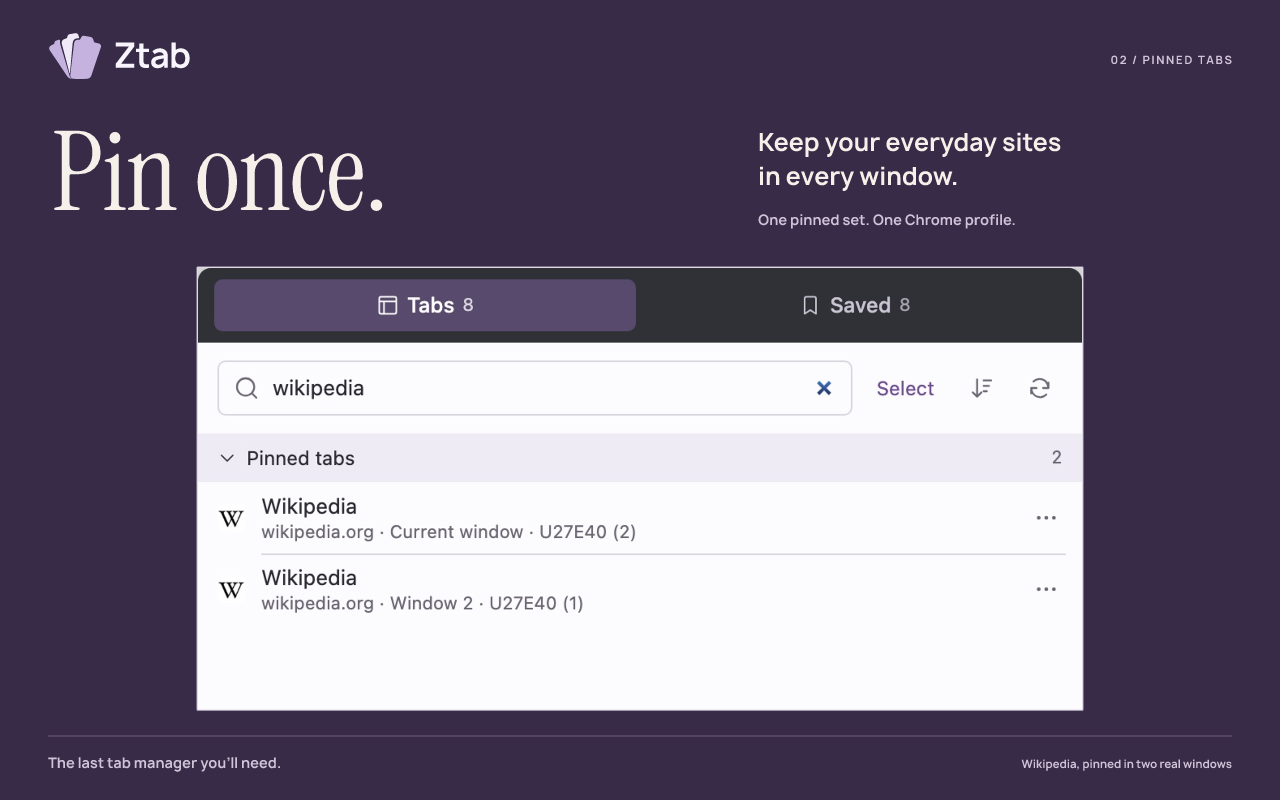
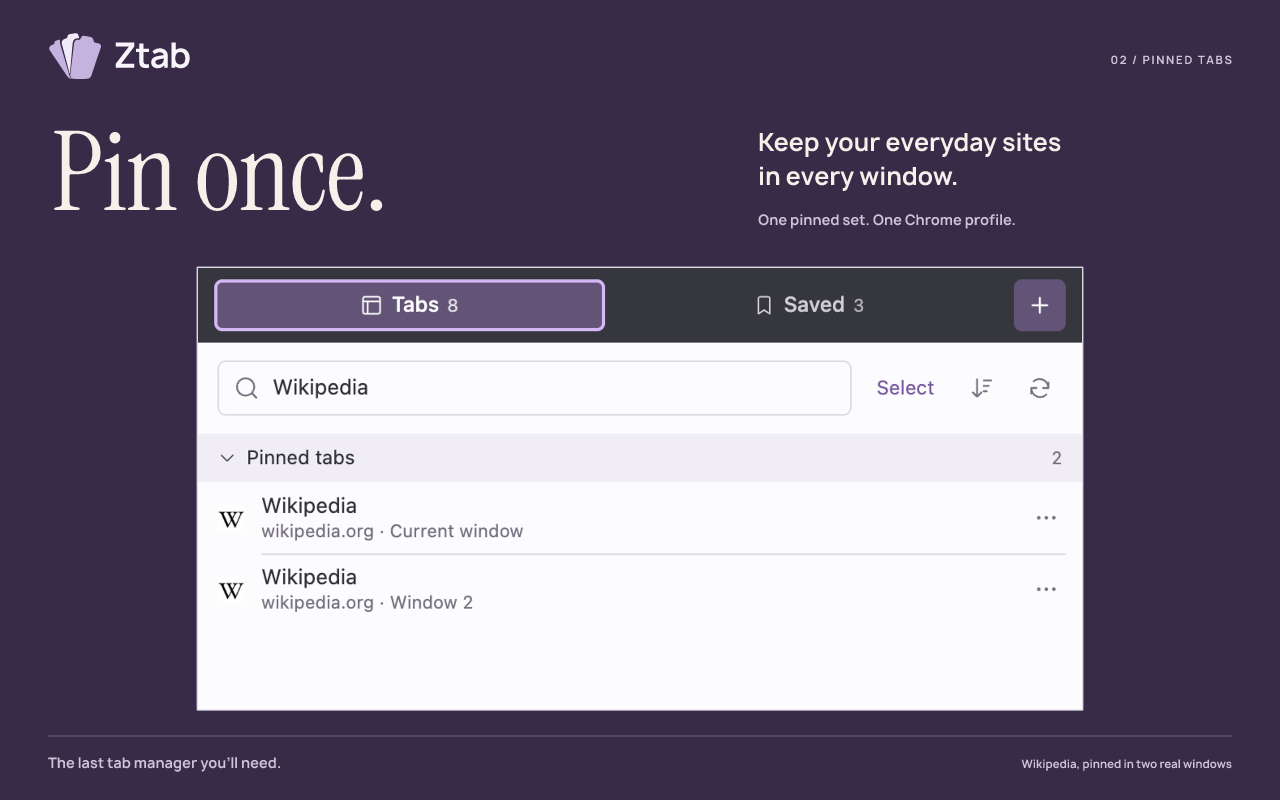
(chore): (Prepare Ztab 2.2.0 with New Tab release notes, refreshed store screenshots, and a verified upgrade package for manual publication)

diff --git a/CHROME_WEB_STORE.md b/CHROME_WEB_STORE.md
@@ -1,76 +1,66 @@
-# Ztab 2.1.1 release
+# Ztab 2.2.0 release
 
-Version **2.0.0** was last verified in the existing Chrome Web Store item on 2026-09-18. Version **2.1.0** is [released on GitHub](https://github.com/z08-studio/ztab/releases/tag/v2.1.0) and adds the approved indigo identity, clearer toolbar icons, an optional support dialog, and a dismissible toolbar pinning tip. Version **2.1.1** prepares the extension and Store name **Ztab: The last tab manager you’ll need.**; its runtime differs from 2.1.0 only in the manifest's name and version.
+Version **2.2.0** is prepared for release and manual Chrome Web Store upload. It adds New Tab actions in the side panel, updates the optional support recipient and QR code, and refreshes the Store screenshots. This document records local preparation; GitHub release publication and Store upload are separate steps.
 
-## Verified 2.0 baseline
+## Release baseline
 
-On **2026-09-18**, the [public Store item](https://chromewebstore.google.com/detail/ztab-tab-manager/fakbifeeblnopdhicpmhhmcdhmefphjp) showed **Ztab: Tab Manager**, version **2.0.0**, updated **2026-09-17**. Before the 2.1 release, GitHub's newest release tag was `v1.1.1`; it is not the baseline for this update.
+On **2026-09-22**, the [public Store item](https://chromewebstore.google.com/detail/ztab-tab-manager/fakbifeeblnopdhicpmhhmcdhmefphjp?hl=en) showed **Ztab: The last tab manager you’ll need.**, version **2.1.1**, updated **September 19, 2026**. The previous [GitHub release](https://github.com/z08-studio/ztab/releases/tag/v2.1.1) points to `36e271af1bd98df67c5769fb66f5c5a56900c540`.
 
[2 lines of base64/hex data omitted]
 
-Use `git diff 9a79758..main` to review the published 2.0 runtime against main. The feature changes reviewed for 2.1 end at `f9dfa3c`; the release preparation updates version numbers, copy, artwork version labels, and verification records.
+## Changes from 2.1.1 to 2.2.0
 
-## Changes from 2.0 to 2.1
-
-| Area | 2.1 change |
+| Area | Change |
 | --- | --- |
-| Identity | Approved B1 Tab Hub logo in P2 indigo; the slogan is **The last tab manager you’ll need.** |
-| Store name | 2.1.1 uses **Ztab: The last tab manager you’ll need.** as the extension and Store name. |
-| Toolbar | Optically fitted 16px and 32px icons improve legibility at actual toolbar size. |
-| Pinning guidance | An unpinned toolbar action shows a small tip. Pinning hides it; dismissing it is remembered locally across windows and restarts. |
-| Optional support | **Support my coding** shows a bundled address QR and a copy button for USDC on Base. It does not connect a wallet, initiate transfers, or contact a payment service. |
-| Store materials | Five refreshed screenshots and two promotional tiles; matching social assets are prepared separately. Version labels follow the package's major/minor version. |
+| New Tab | **+** beside Tabs and Saved creates an active, unpinned tab in the panel's host window, using Chrome's configured New Tab page. |
+| Other windows | **+** on another window's heading creates a tab there and focuses that window. The current-window heading has no duplicate action. |
+| Interactions | New Tab works from Saved, searches, selection, and Move mode. A successful creation returns to Tabs, clears only its search, and reveals the new row. Saved searches remain. Enter and Space activate the buttons. |
+| Failure handling | Pending and duplicate clicks are blocked. Creation failure preserves the view; focus or refresh failure after creation reports that the tab already opened. Host and destination checks preserve normal/private boundaries. |
+| Optional support | The displayed, copied, and QR-encoded recipient is `0x64719eBcD29fBbaDCCFb53Cb16aB18cff81a8067` for USDC on Base. |
+| Store materials | Fresh 2.2.0 captures show New Tab, pinned tabs, bulk selection, and Saved. English listing copy and release notes describe the new actions. |
 
-Inline cross-window groups, Saved, batch actions, recent/manual sorting, display labels, and light/dark layouts are already in **2.0**. They are not new 2.1 features. The final extension has no hosted checkout or wallet SDK; the intermediate support-site implementation was removed before this release.
+The ZIP differs from 2.1.1 in seven runtime files: the manifest, side-panel HTML, panel CSS and JavaScript, workspace controller, support constant, and bundled support QR. There are no new permissions, storage keys, dependencies, or minimum-version changes. **Chrome 123 or later** remains required.
 
-Permissions, Chrome's minimum version (**123**), existing storage keys, pinned synchronization, workspace operations, window merging, and keyboard navigation are unchanged from the published 2.0 runtime. The pinning tip adds only `ztab.toolbarPinTipDismissed` in local storage. Existing group definitions, Saved pages/collections, shared pinned sites, and preferences remain. As in 2.0, live group membership, manual ordering, and recent-use records reset on an extension update or browser restart.
+Saved pages, collections, group definitions, shared pinned sites, and preferences persist. As before, live group membership, manual ordering, and recent-use records reset on an extension update or browser restart. The support dialog does not connect a wallet or initiate a payment.
 
 ## Release status and package
 
 | Item | Status |
 | --- | --- |
-| Target version | 2.1.1 in both `manifest.json` and `package.json` |
-| Previous GitHub release | `v2.1.0` at `a25c61f`; its tag and assets remain unchanged |
+| Target version | 2.2.0 in both `manifest.json` and `package.json` |
+| Previous GitHub release | `v2.1.1`; its tag and assets remain unchanged |
 | Existing Store item | `fakbifeeblnopdhicpmhhmcdhmefphjp` |
-| Public baseline | 2.0.0, verified 2026-09-18 |
-| Local archive | `ztab-2.1.1.zip`; 82,392 bytes (80.5 KiB), built 2026-09-18 |
[1 lines of base64/hex data omitted]
+| Public Store version | 2.1.1, verified 2026-09-22 |
+| Local archive | `ztab-2.2.0.zip`; 83,090 bytes (81.1 KiB), built 2026-09-22 |
[1 lines of base64/hex data omitted]
 | Package contents | 45 runtime files, with `manifest.json` at the archive root |
-| 2.1.1 GitHub release | Pending |
-| 2.1 Store upload, review submission, publication | Pending; local preparation does not establish these states |
+| Release branch | `bear-prepare-v2-2-release`, targeting `main` through a release PR |
+| GitHub tag and release | Pending release PR merge and publication |
+| Store upload, review submission, publication | Pending; to be completed manually by Bear |
 
-Run `pnpm assets:store` to regenerate icons and marketing assets. Run `pnpm package` to execute the tests, validate versions, JavaScript syntax and manifest references, and generate `dist-store/` plus the ZIP. The package includes runtime files, the privacy policy and license; it excludes dependencies, tests, development docs, review output, and marketing images. Rebuilding the archive requires updating its size and checksum here.
+Run `pnpm assets:store` to regenerate icons and marketing assets. Run `pnpm package` to execute tests, validate versions, JavaScript syntax and manifest references, and generate `dist-store/` plus the ZIP. The package excludes dependencies, tests, development docs, local output, and marketing images. Rebuilding the archive requires updating its size and checksum here.
 
-## 2.1.1 name verification — 2026-09-18
+## Verification — 2026-09-22
 
-- [x] Run `pnpm package`: **152 tests pass**; packaged JavaScript syntax and manifest references validate.
-- [x] Verify all 45 packaged files match the source and `dist-store/` byte-for-byte. Against the published 2.1.0 ZIP, only `manifest.json` differs, and only its `name` and `version` fields change.
-- [x] Load `dist-store/` in an isolated Chrome for Testing 153 profile. The extension list and details page display the full **Ztab: The last tab manager you’ll need.** name; the extension is enabled and reports version **2.1.1**. See the [verified details screenshot](docs/screenshots/extension-name-2.1.1.png).
+- [x] Run `pnpm package`: **158 tests pass**; packaged JavaScript syntax and manifest references validate.
+- [x] Verify all 45 archived files match the source and `dist-store/` byte-for-byte; archive integrity and the runtime allowlist pass. Compare all files with the downloaded 2.1.1 ZIP and confirm unchanged permissions and minimum Chrome version.
+- [x] Load the published 2.1.1 package at a fixed unpacked path in an isolated Chrome for Testing **153.0.8010.12** profile on macOS. Seed three Saved entries, a collection, two group definitions, pinned Wikipedia in two windows, and panel preferences. Replace the files with 2.2.0 and reload through Chrome's extension page with Developer mode enabled.
+- [x] Confirm the same extension ID, enabled 2.2.0 version, unchanged Saved entries/collection IDs/group definitions, two pinned copies, pinned origins, and hidden-pins/sort/dismissed-tip preferences. Live membership and manual order clear as documented. Verify New Tab after the upgrade and check the support dialog's new recipient.
+- [x] Retain the feature's native side-panel, keyboard, Saved/search, failure-path, and 280/320/400px light/dark checks in [tests/README.md](tests/README.md#new-tab-checks).
+- [x] Capture the actual 2.2.0 side-panel document with real public pages and regenerate Store materials. Inspect the refreshed sources, cover, and both overview sheets. All five screenshots are 1280×800, the two promotional tiles have the expected dimensions, and all seven marketing images are opaque RGB PNGs. The four approved extension icons remain byte-identical.
+- [x] Run `git diff --check`. Keep documentation, listing copy, screenshot samples, and release notes in English.
 
-## 2.1.0 release verification — 2026-09-18
+The local unpacked upgrade does not establish Store delivery. Live incognito creation, third-party New Tab overrides, Windows/Linux, and Chrome 123–129 were not manually rechecked; mode boundaries and creation/focus failure have automated coverage. Local upgrade snapshots, screenshots, and package verification records are in ignored `output/`.
 
-- [x] Compare the published 2.0 CRX with its source commit and review the actual 2.1 delta.
-- [x] Run `pnpm package`: **152 tests pass**; JavaScript syntax and manifest references validate.
-- [x] Verify all 45 archived files match `dist-store/` byte-for-byte and contain only the runtime allowlist.
-- [x] Regenerate the approved artwork with `pnpm assets:store`; update marketing version labels to 2.1 without changing captured product pixels.
-- [x] Upgrade the downloaded 2.0 runtime to the prepared 2.1 files at the same unpacked path in isolated Chrome for Testing 153. The extension ID stays the same; Saved entries, collection IDs, group definitions, pinned origins, hidden-pins and sort preferences are preserved exactly. Two pinned copies remain in two windows. Live membership clears as documented.
-- [x] Use Chrome's native **Pin to toolbar** toggle: pinning hides the tip and unpinning restores it. Dismissing with Enter focuses Search, updates a second window, and persists after a page reload and full browser restart. Saved data also survives the restart; the restarted panel logs no console errors or warnings.
-- [x] Check the support dialog at 280px, 320px and 420px in light/dark modes with no horizontal overflow; inspect both 320px captures. Scoped clipboard stubs verify the success message and the denied-write fallback selecting all 42 address characters, without changing the system clipboard. Escape returns focus to the support button. The automated QR test verifies the bundled recipient.
-- [x] Visually review the regenerated Store cover and both Store/social contact sheets; validate screenshot/social dimensions and RGB encoding, and verify source captures and provenance remain byte-identical. `git diff --check` passes.
-
-The reviewed runtime changes contain no identified release-blocking correctness issue. Release preparation corrects the stale 2.0 version/rollout documentation and hardcoded artwork labels, and documents the new pinning-tip preference in the privacy policy. Support and privacy URLs were rechecked through their GitHub redirects and returned HTTP 200.
-
-Earlier verification remains dated in [tests/README.md](tests/README.md). Windows/Linux, Chrome 123–129, and a Chrome Web Store-delivered update still require checks on those environments; a local unpacked upgrade does not establish Store delivery.
-
-## Chrome Web Store rollout
+## Manual Chrome Web Store rollout
 
 Update the [existing item](https://chromewebstore.google.com/detail/fakbifeeblnopdhicpmhhmcdhmefphjp) in the [Developer Dashboard](https://chrome.google.com/webstore/devconsole). Keep its extension ID so installed users receive the update.
 
-1. Recheck the currently published version and upload the verified `ztab-2.1.1.zip` when publishing proceeds.
-2. Use the current fields and **2.1.1** release notes from [store-listing/LISTING.md](store-listing/LISTING.md). Use **Ztab: The last tab manager you’ll need.** as the name and preserve the Telegram community invitation.
-3. Upload the 128px icon, five individual screenshots, and two promotional tiles from [store-listing/assets/final/](store-listing/assets/final/), following [ARTWORK.md](store-listing/ARTWORK.md). Do not upload review sheets or social images to the Store.
-4. Keep support at `https://github.com/boundless-forest/ztab/issues` and replace the legacy privacy field with `https://github.com/boundless-forest/ztab/blob/main/PRIVACY_POLICY.md`. The 2026-09-18 public listing still linked to `boundless-forest/pinallwindows` and showed **Website content** in its data disclosures; reconcile Dashboard fields with the current policy and listing declarations before submission.
-5. Save the package and listing changes, submit for review when authorized, and record the Dashboard state separately from public availability.
-6. After publication, verify the public version is **2.1.1**, the new name and assets are visible, and an installed update retains the ID and persistent data. Verify the toolbar action, assigned shortcut, and pinned synchronization. Update the README preparation note after public availability is confirmed.
+1. Merge the release PR into `main`; publish the `v2.2.0` GitHub release against that reviewed source when ready. Attach the verified ZIP and its checksum without replacing older release assets.
+2. Upload **`ztab-2.2.0.zip`** as the new package in the existing Store item.
+3. Use the current English description and **2.2.0** release notes from [store-listing/LISTING.md](store-listing/LISTING.md). Preserve the approved product name and Telegram community invitation.
+4. Upload the 128px icon, five individual screenshots, and two promotional tiles from [store-listing/assets/final/](store-listing/assets/final/), following [ARTWORK.md](store-listing/ARTWORK.md). Do not upload overview sheets or source captures.
+5. Check the Dashboard's privacy and permission declarations against the current listing and policy. Support remains `https://github.com/boundless-forest/ztab/issues`; privacy is `https://github.com/boundless-forest/ztab/blob/main/PRIVACY_POLICY.md`. These established links redirect to the current repository.
+6. Save the package and listing changes, submit for review, and record submission separately from public availability. After publication, verify the Store shows **2.2.0**, an installed update retains its ID and persistent data, and New Tab, the toolbar shortcut, and pinned synchronization work. Update this guide and the README after publication is confirmed.
 
-The current repository is [z08-studio/ztab](https://github.com/z08-studio/ztab); `origin` uses `git@github.com:z08-studio/ztab.git`. Public support links retain their established `boundless-forest/ztab` address. Verify redirects before Store submission. Historical `pinallwindows.*` keys and runtime message names are compatibility identifiers and must not be renamed for this release.
+The current repository is [z08-studio/ztab](https://github.com/z08-studio/ztab). Historical `pinallwindows.*` keys and runtime message names are compatibility identifiers and must not be renamed for this release.

diff --git a/store-listing/QA.md b/store-listing/QA.md
@@ -1,13 +1,14 @@
-# Artwork verification — 2026-09-22
+# Artwork verification — Ztab 2.2.0 — 2026-09-22
 
-- Approved copy: **A — The last tab manager you’ll need.** Repository documentation, marketing copy, and screenshot examples use English.
-- Approved identity: B1 Tab Hub, P2 indigo. The four regenerated extension icons match the prior revision and the packaged copies.
-- Exports: **5 × 1280×800** Store screenshots, **440×280** and **1400×560** promo tiles. All seven marketing images are opaque RGB PNGs. Two overview sheets cover the Store images and brand system.
-- Sources: recaptured Saved from the actual Ztab 2.1.1 extension in an isolated Chrome for Testing profile. The **Public resources** collection contains real Wikipedia, NASA, and Python pages saved through extension workspace operations. The other five approved product captures are unchanged.
-- Visual review: inspected the refreshed Saved capture, its final Store image, and both overview sheets. The collection label fits, the page titles and favicons remain readable, and no product pixels were repainted.
-- Rendering: `pnpm assets:store` completes using bundled Manrope and Instrument Serif fonts with system-font loading disabled. Capture dimensions and approved slogan line breaks are validated.
-- Package: `pnpm package` passes **152 tests**, validates packaged JavaScript and manifest entries, and rebuilds `ztab-2.1.1.zip`.
-- Cleanup: local drafts, browser profiles, and review packages belong in ignored `output/` or outside the repository. macOS `.DS_Store` files are ignored.
-- Diff: `git diff --check` passes. Runtime permissions, storage behavior, and version numbers are unchanged.
+- Approved copy: **A — The last tab manager you’ll need.** Documentation, marketing copy, and screenshot samples use English.
+- Approved identity: B1 Tab Hub, P2 indigo. All four regenerated extension icons remain byte-identical to the prior revision.
+- Exports: **5 × 1280×800** Store screenshots, **440×280** and **1400×560** promotional tiles. All seven marketing images are opaque RGB PNGs. Two overview sheets cover the Store images and brand system.
+- Sources: refreshed Tabs, pinned tabs, bulk selection/action bar, and Saved from the actual **Ztab 2.2.0** side-panel document in an isolated Chrome for Testing 153 profile at device scale factor 2. Real Wikipedia, NASA, Python, Rust, and MDN pages are open in two windows. The unchanged keyboard-help dialog retains its earlier capture.
+- Authenticity: the Tools group is collapsed in the main capture. The bulk capture uses an HTTPS search, hidden pinned tabs, and four selected public pages; the action bar comes from the same selection. Saved shows the genuine **Public resources** collection preserved during the upgrade. Counts and product pixels are not edited or reconstructed.
+- Visual review: inspected all refreshed sources, the final cover, and both overview sheets. New Tab controls, window actions, page titles, favicons, and collection names remain readable. Screenshots scale proportionally.
+- Rendering: `pnpm assets:store` completes using bundled Manrope and Instrument Serif fonts. Approved slogan line breaks and source dimensions validate; the cover now shows **Ztab 2.2**.
+- Package: `pnpm package` passes **158 tests**, validates packaged JavaScript and manifest entries, and creates `ztab-2.2.0.zip`. All 45 archived files match the source and staging directory. Version numbers are 2.2.0; permissions remain unchanged.
+- Upgrade: the fixed-path 2.1.1 → 2.2.0 check preserves the extension ID, Saved, collections, group definitions, pinned sites/copies, and panel preferences. See [the release guide](../CHROME_WEB_STORE.md) for evidence and scope.
+- Cleanup: browser profiles and review output stay in ignored `output/` or outside the repository. `git diff --check` passes.
 
-These checks cover local source, artwork, and package preparation. Chrome Web Store upload and publication remain separate actions.
+These checks cover local source, artwork, and package preparation. Chrome Web Store upload and publication will be completed manually.

diff --git a/store-listing/LISTING.md b/store-listing/LISTING.md
@@ -1,6 +1,6 @@
 # Ztab store listing
 
-Prepared English copy for the **2.1.1** update to the existing Chrome Web Store item, following the published 2.0.0 release. The three product pillars are cross-window tab management, shared pinned tabs, and keyboard shortcuts with thoughtful interactions. This document does not indicate that the 2.1.1 listing has been submitted or published; see [the release guide](../CHROME_WEB_STORE.md) for rollout status.
+Prepared English copy for the **2.2.0** update to the existing Chrome Web Store item. The three product pillars are cross-window tab management, shared pinned tabs, and keyboard shortcuts with thoughtful interactions. Upload and submission will be completed manually; see [the release guide](../CHROME_WEB_STORE.md) for rollout status.
 
 ## Product name
 
@@ -32,6 +32,7 @@ MANAGE TABS ACROSS WINDOWS
 
 • See pinned tabs, inline groups, and window sections in one side panel
 • Jump directly to a tab in any normal window
+• Create a new tab with + beside Tabs and Saved, or use + on another window's heading to open one there
 • Move or close regular tabs without bringing each window forward
 • Keep related tabs in Ztab groups across windows without moving their browser tabs
 • Find recently used tabs first, or arrange them in Manual order
@@ -57,6 +58,7 @@ SHORTCUTS AND THOUGHTFUL INTERACTIONS
 • See the currently assigned shortcut in keyboard help
 • Select a tab with the Up and Down Arrow keys, then press Enter to open it
 • Move between controls with Tab and Shift+Tab
+• Open New Tab with Enter or Space, including while viewing Saved or searching
 • Click a tab title to jump to that tab
 • Close regular tabs with ×, use ··· for page actions, and find Merge here beside other windows
 • Cmd-click or Ctrl-click to select tabs, and Shift-click to select a range
@@ -79,7 +81,19 @@ JOIN THE COMMUNITY
 
 Have a question, found a bug, or have an idea for Ztab? Join our Telegram community: https://t.me/z08_studio
 
-## Release notes — 2.1.1
+## Release notes — 2.2.0
+
+Ztab 2.2 makes it easier to open your next tab without leaving the side panel.
+
+• Adds + beside Tabs and Saved to create a tab in the current window
+• Adds + beside other windows to create and focus a tab there
+• Keeps New Tab available from Saved and search results, with keyboard access
+• Reveals the new tab and clears the Tabs search while preserving your Saved search
+• Updates the optional USDC on Base support address and its matching QR code
+
+No new permissions are required. Your Saved library, collections, group definitions, shared pinned sites, and preferences remain in your local profile. As before, live group membership, manual tab order, and recent-use records reset when the extension updates. Chrome 123 or later is required.
+
+## Previous release notes — 2.1.1
 
 Ztab 2.1 refreshes the app's identity and makes it easier to keep Ztab within reach.
 
@@ -109,7 +123,7 @@ Group definitions and Saved pages remain across browser restarts. Live group mem
 
 ### tabs
 
-Reads open tabs and pinned state, displays the live tab list, focuses tabs, moves or closes tabs on request, creates missing pinned tabs, and removes duplicate pinned copies. No tab data is sent to an external server.
+Reads open tabs and pinned state, displays the live tab list, creates and focuses new tabs on request, moves or closes tabs on request, creates missing pinned tabs, and removes duplicate pinned copies. No tab data is sent to an external server.
 
 ### windows
 

diff --git a/store-listing/ARTWORK.md b/store-listing/ARTWORK.md
@@ -34,7 +34,7 @@ The Store image sizes follow the [Chrome Web Store image guidance](https://devel
 
 Use the Store screenshots in this order:
 
-1. **Across windows** — approved slogan and public pages from two Chrome windows; switching and Merge here are visible.
+1. **Across windows** — approved slogan and public pages from two Chrome windows; New Tab actions, switching and Merge here are visible.
 2. **Pinned tabs** — “Pin once.” The real Wikipedia search shows pinned copies in two windows.
 3. **Keyboard shortcuts** — “Stay in flow.” The actual help dialog accompanies a three-step keyboard sequence.
 4. **Bulk actions** — “A little less tab juggling.” Four public pages selected across windows, with their action bar separately displayed and labeled.
@@ -44,9 +44,9 @@ Use the Store screenshots in this order:
 
 ## Authentic screenshot sources
 
-The windows, pins, keyboard and bulk sources were captured on **2026-09-17** in the user's **Google Chrome**, with installed **Ztab 2.0** and **Shottr**. Saved was recaptured on **2026-09-22** in an isolated **Chrome for Testing** profile with **Ztab 2.1.1** and the **Public resources** collection. The collection was populated through the extension's workspace operations using real open Wikipedia, NASA and Python pages. Public websites in the full artwork set also include Rust and MDN. Page titles and favicons come from those sites.
+The windows, pins, bulk selection/action bar, and Saved sources were captured on **2026-09-22** from the actual **Ztab 2.2.0 side-panel document** in an isolated **Chrome for Testing 153** profile using Playwright at device scale factor 2. Real public pages are open in two Chrome windows. The **Public resources** collection contains Wikipedia, NASA and Python pages and was preserved during the verified upgrade from 2.1.1. Public websites also include Rust and MDN; page titles and favicons come from those sites. The unchanged keyboard-help dialog retains its **2026-09-17** capture from installed **Ztab 2.0** in the user's Chrome with Shottr.
 
-Full original captures stay local outside the repository and deliverable ZIP. Only safe product regions are checked in. Chrome's native side-panel header, including its old logo, was cropped away when present. That header is not recolored or replaced. Navigation, fields, rows, dialog and action controls stay exactly as captured.
+Review artifacts stay in ignored `output/` or outside the repository and deliverable ZIP. Only product regions are checked in; no browser account controls or private pages appear. The internal tooling group is collapsed in the window capture, and the bulk capture uses an HTTPS search with pinned tabs hidden. Navigation, fields, rows, counts, dialog and action controls stay exactly as captured.
 
 | Safe source | Size | Visible content |
 | --- | ---: | --- |

diff --git a/store-listing/assets/final/README.md b/store-listing/assets/final/README.md
@@ -6,7 +6,7 @@ Identity: **B1 Tab Hub + P2 indigo**. Slogan: **The last tab manager you’ll ne
 
 - `promo-small-440x280.png`: 440×280 promotional tile.
 - `promo-marquee-1400x560.png`: 1400×560 marquee tile.
-- `screenshots/screenshot-01-side-panel.png`: 1280×800; brand introduction and cross-window management.
+- `screenshots/screenshot-01-side-panel.png`: 1280×800; Ztab 2.2, New Tab actions, and cross-window management.
 - `screenshots/screenshot-02-pinned-tabs.png`: 1280×800; Wikipedia pinned in two windows.
 - `screenshots/screenshot-03-keyboard.png`: 1280×800; actual keyboard-help dialog.
 - `screenshots/screenshot-04-groups-bulk.png`: 1280×800; four selected pages and the separately labeled action bar.
@@ -16,6 +16,6 @@ Upload the five screenshots in numeric order. Use the repository's `icons/icon12
 
 All seven marketing images are opaque RGB PNGs. Instrument Serif headlines and Manrope details provide consistent typography without relying on system fonts. The layout uses warm paper, ink, and the approved indigo palette.
 
-Product images are privacy-cropped captures from the user's Chrome and installed Ztab 2.0, plus a Saved capture from an isolated Chrome for Testing profile running Ztab 2.1.1. They show public Wikipedia, NASA, Python, Rust and MDN pages. Browser account controls and private pages are excluded. The real UI pixels are scaled proportionally, never reconstructed.
+Tabs, pinned tabs, bulk actions, and Saved are fresh captures from the actual Ztab 2.2.0 side-panel document in an isolated Chrome for Testing profile. They show real public Wikipedia, NASA, Python, Rust and MDN pages in two windows. The unchanged keyboard dialog retains its earlier Ztab 2.0 capture. Browser account controls and private pages are excluded. The real UI pixels are scaled proportionally, never reconstructed.
 
 Rebuild with `pnpm assets:store`. See `../../ARTWORK.md` for provenance, exact design rules and verification. The files are prepared locally; rendering does not upload or publish them.

diff --git a/README.md b/README.md
@@ -12,7 +12,7 @@ Ztab brings your Chrome windows together with three everyday capabilities:
 
 Ztab was previously named TabSpan. The capital Z follows the Z-series naming convention used by Zdraft.
 
-**Version 2.1.0 is released on GitHub; 2.1.1 prepares the Chrome Web Store name “Ztab: The last tab manager you’ll need.”** The Store was last verified at 2.0.0 on 2026-09-18. Version 2.1 refreshes the Ztab identity and toolbar icons, adds an optional support dialog, and helps users pin Ztab for quick access. Inline groups, batch actions, Saved, and recent sorting were introduced in 2.0. See the [release guide](CHROME_WEB_STORE.md) for the verified baseline, changes, and rollout status.
+**Version 2.2.0 is prepared for release and manual Chrome Web Store upload.** It adds New Tab actions for the current or another window and updates the optional support address and QR code. Version 2.1.1 is the previous GitHub release. See the [release guide](CHROME_WEB_STORE.md) for package verification, release notes, and rollout status.
 
 Ztab requires **Chrome 123 or later**. Older Chrome installations remain on their previous compatible extension version until Chrome is upgraded.
 
